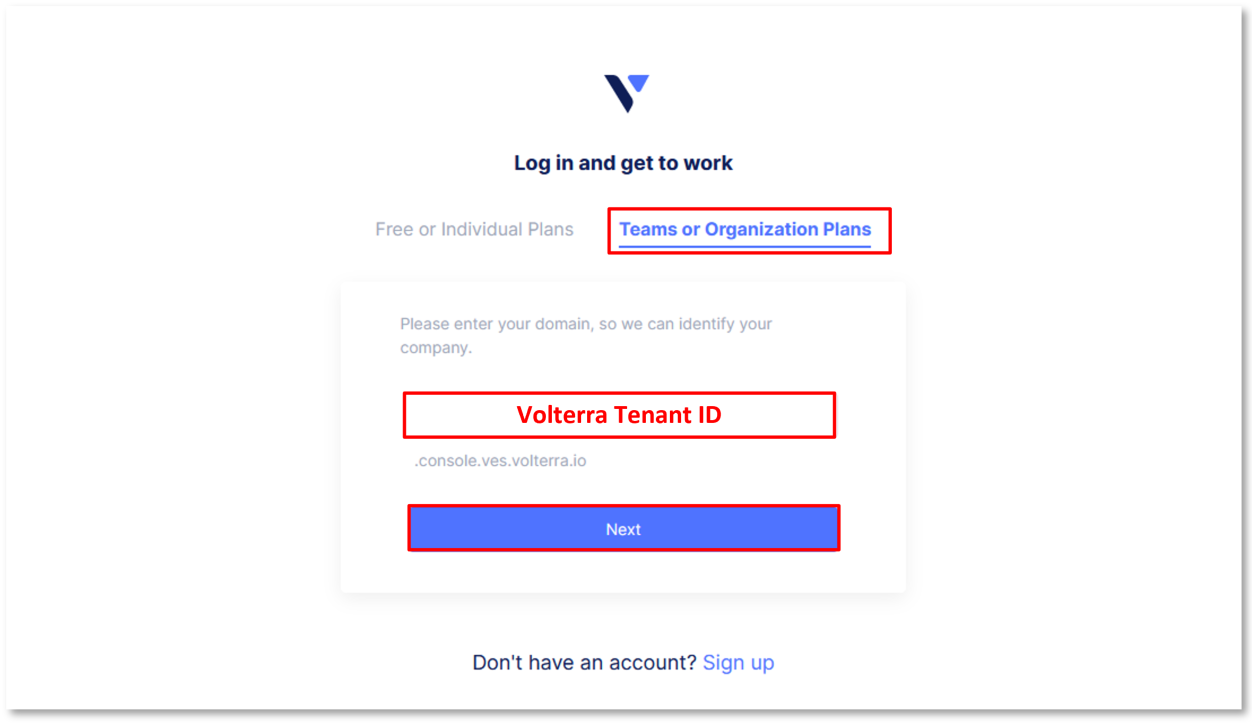
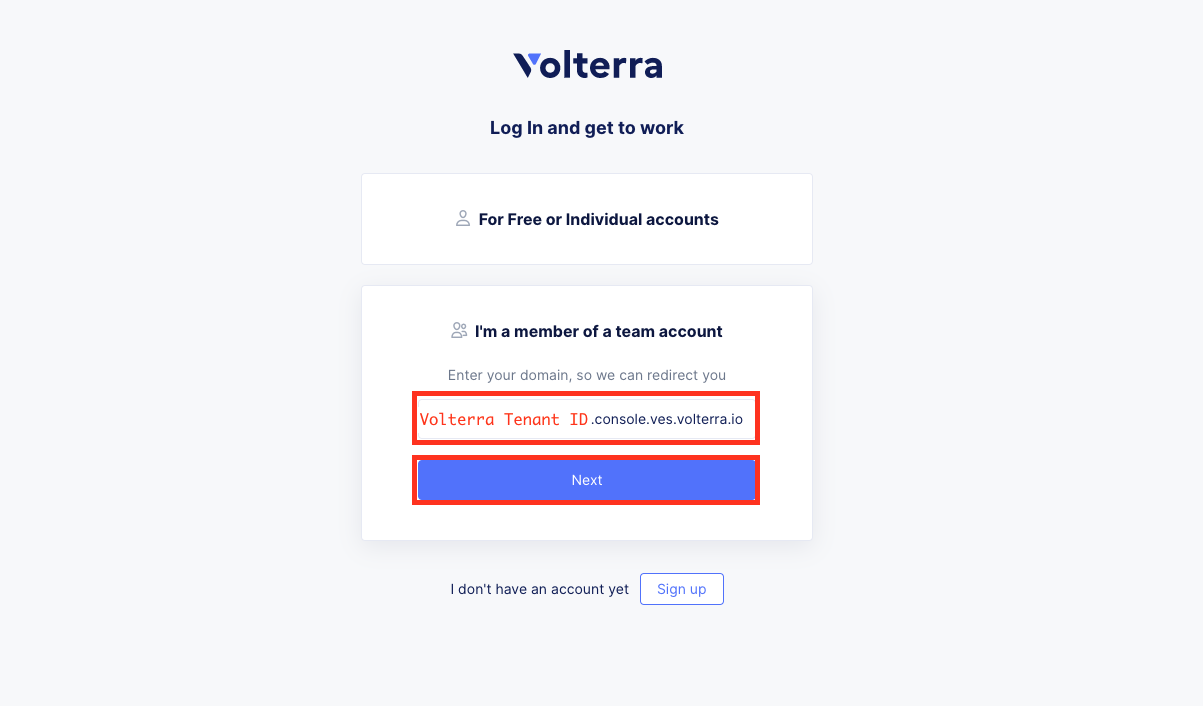
updating Volterra console login screenshots
for security lab 1 Task 3

diff --git a/security/docs/lab01/index.rst b/security/docs/lab01/index.rst
@@ -102,10 +102,10 @@ TASK 3: Volterra Console (General Navigation)
 +----------------------------------------------------------------------------------------------+
 | 1. Login to the Volterra Console: **https://www.volterra.io** and complete authentication.   |
 |                                                                                              |
-| 2. **Log In** > **Teams or Organization Plans** <Enter your Volterra Tenant ID> then click   |
-|    **Next**.                                                                                 |
+| 2. **Log In** > **I'm a member of a team account** <Enter your Volterra Tenant ID>           |
+|    then click **Next**.                                                                      |
 |                                                                                              |
-| 3. **Log in with Azure** (Participants must have completed the account onboarding process.)  |
+| 3. **Sign in with Azure** (Participants must have completed the account onboarding process.) |
 |                                                                                              |
 | *Note: Participants must have their Volterra Tenant ID to complete login and lab.*           |
 |                                                                                              |
